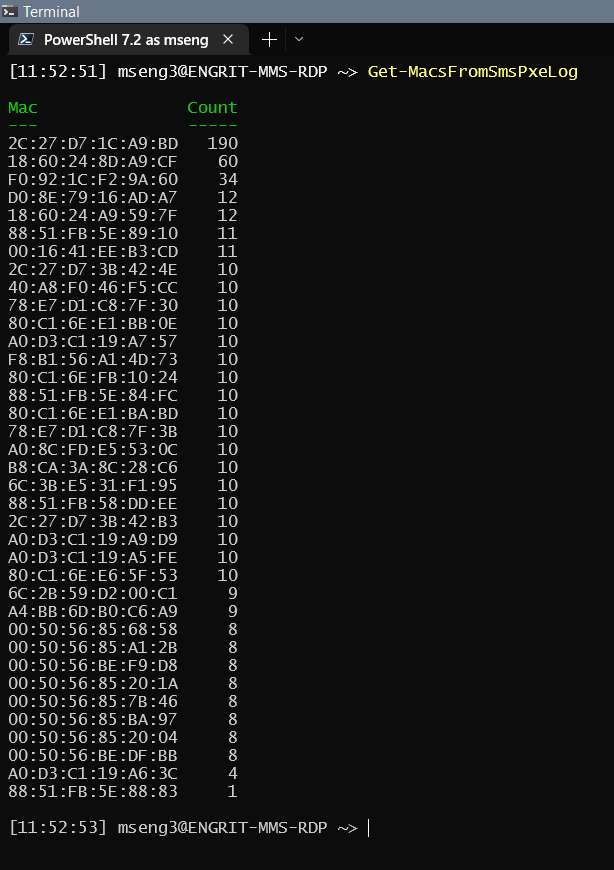
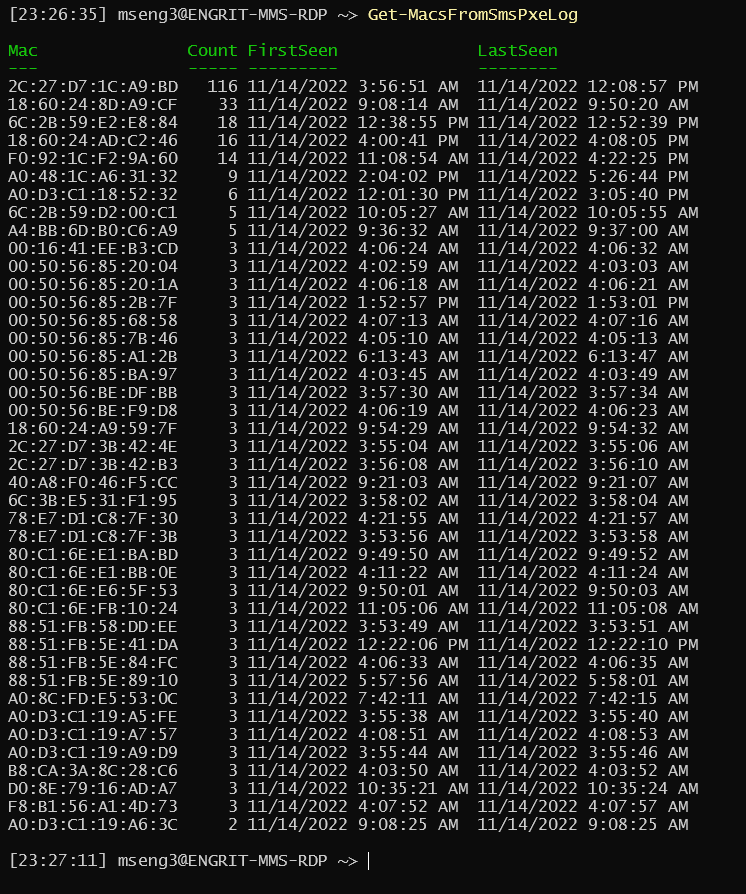
Now returns FirstSeen and LastSeen dates for each unique MAC

Changed region(s): [[0.0, 0.0, 1.0, 0.9931]]

diff --git a/README.md b/README.md
@@ -1,7 +1,7 @@
 # Summary
 Pulls our SMSPXE log from the `\\engr-mecmdp-01\logs` share and pulls just the MACs, to help identify bootlooping machines.  
 
-This script just pulls all MAC addresses from the current content of `SMSPXE.log`, and returns the list of unique MACs found, along with a count of how many times they each appeared in the log. This makes it obvious if there are any machines which are bootlooping and spamming the log.  
+This script just pulls all MAC addresses from the current content of `SMSPXE.log`, and returns the list of unique MACs found, along with a count of how many times they each appeared in the log, and their first and last seen times. This makes it obvious if there are any machines which are bootlooping and spamming the log.  
 
 # Requirements
 - Must be run as a user with permission to `\\engr-mecmdp-01\logs`.  
@@ -13,7 +13,18 @@ This script just pulls all MAC addresses from the current content of `SMSPXE.log
 <img src=".\Get-MacsFromSmsPxeLog_example.png" />
 
 # Parameters
-None.  
+
+### -Path \<string\>
+Optional string.  
+Specifies the file path to the SMSPXE.log to parse.  
+Default is `\\engr-mecmdp-01\logs\SMSPXE.log`.  
+Note: this log is cycled out and an older log with a timestamp in the name is kept in the same directory.  
+
+### -TimezoneModifier \<string\>
+Optional string.  
+Specifies the timezone offset used by timestamps in the SMSPXE.log file.  
+Default is `+360`.  
+Note: This could be revisited, and either ignored with some fancy regex, or actually interpreted correctly, which I wasn't sure how to do.  
 
 # Notes
 By mseng3. See my other projects here: https://github.com/mmseng/code-compendium.
